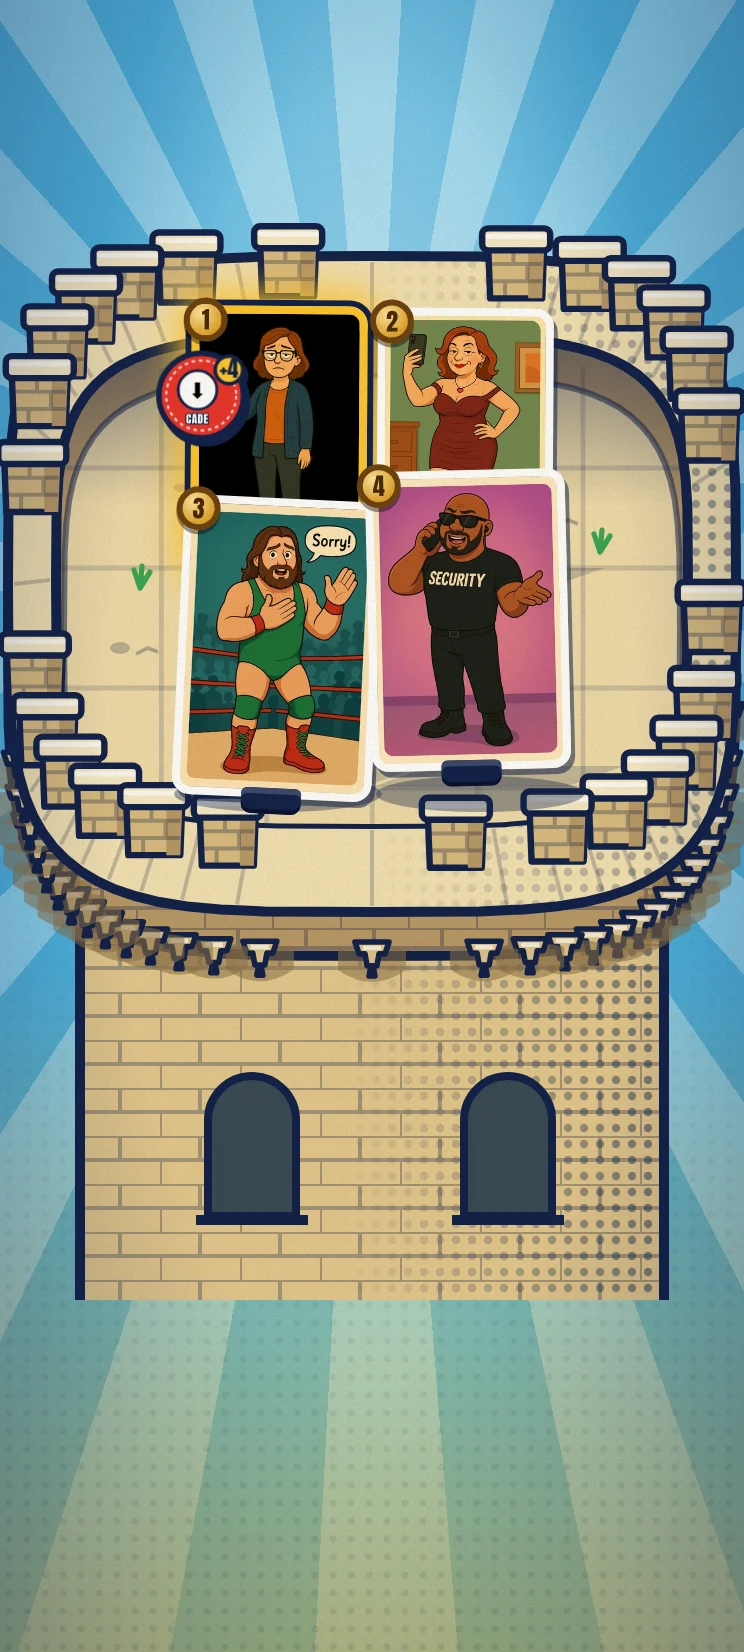
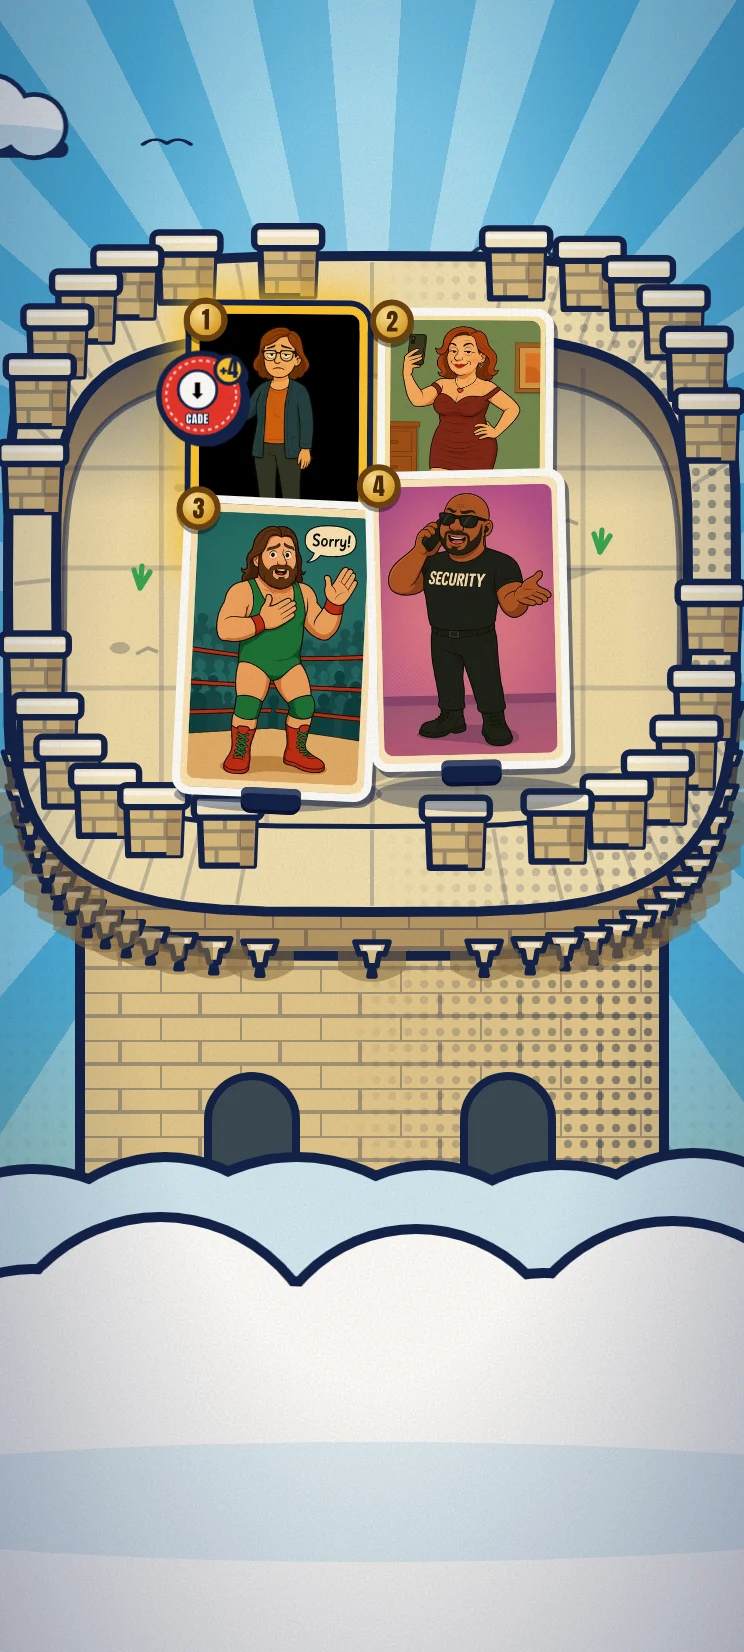
Torre fino a fuori schermo che spunta da un banco di nuvole animato; nuvole in cielo e uccellini (anche nell'app)
Claude-Session: https://claude.ai/code/session_015MZQbASn23pwRSK2Kvx35x

diff --git a/apps/web/src/scene/clouds.ts b/apps/web/src/scene/clouds.ts
@@ -1,0 +1,47 @@
+/**
+ * Nuvole e uccellini della scena della torre (stile pop: contorno inchiostro, bianco, ombra azzurra).
+ * - `cloudBankHtml`: il banco di nuvole in basso, da cui la torre «spunta»; sta dentro lo strato della torre (sopra il fusto, sotto la terrazza).
+ * - `skyLifeHtml`: nuvole che scorrono lente e uccellini che passano, dietro la torre.
+ * Le animazioni sono CSS (app.css, classi `sk-*`); con «riduci animazioni» restano ferme e senza uccellini.
+ */
+const NV = "#13224a";
+type C = [number, number, number];
+
+/** Una nuvola: cerchi sovrapposti, contorno inchiostro (cerchi più grandi sotto), riempimento bianco e ombra azzurra in basso. */
+function nuvola(id: string, w: number, circles: C[], baseY: number): string {
+  const grow = circles.map(([x, y, r]) => `<circle cx="${x}" cy="${y}" r="${r + 4}"/>`).join(""), fill = circles.map(([x, y, r]) => `<circle cx="${x}" cy="${y}" r="${r}"/>`).join("");
+  const h = Math.max(...circles.map(([, y, r]) => y + r)) + 6;
+  return `<svg width="${w}" height="${w * h / 210}" viewBox="0 0 210 ${h}" style="display:block;overflow:visible"><defs><clipPath id="${id}">${fill}</clipPath></defs>
+  <g fill="${NV}">${grow}<rect x="${Math.min(...circles.map(([x, , r]) => x - r)) - 4}" y="${baseY - 4}" width="${Math.max(...circles.map(([x, , r]) => x + r)) - Math.min(...circles.map(([x, , r]) => x - r)) + 8}" height="14" rx="7"/></g>
+  <g fill="#fff">${fill}</g><g clip-path="url(#${id})"><ellipse cx="105" cy="${baseY + 8}" rx="120" ry="26" fill="#cfe8f5"/><ellipse cx="62" cy="${baseY + 14}" rx="60" ry="12" fill="#b7dcee" opacity=".7"/></g></svg>`;
+}
+const FORME: { c: C[]; baseY: number }[] = [
+  { c: [[44, 62, 26], [82, 46, 34], [122, 54, 30], [158, 64, 24], [102, 68, 26]], baseY: 80 },
+  { c: [[40, 56, 22], [70, 40, 28], [104, 36, 32], [140, 50, 28], [172, 62, 20], [96, 60, 24]], baseY: 74 },
+  { c: [[52, 58, 28], [96, 44, 34], [140, 58, 28]], baseY: 80 },
+];
+
+/** Il banco di nuvole in basso: due file che ondeggiano piano in senso opposto, bianche e azzurre. `top` è la y (nelle coordinate dello strato) della cima delle nuvole. */
+export function cloudBankHtml(top: number): string {
+  const row = (ys: number, rs: number[], fill: string, cls: string, x0: number, step: number) => `<g class="${cls}" fill="${fill}">${rs.map((r, i) => `<circle cx="${x0 + i * step}" cy="${ys + (i % 2 ? 14 : 0)}" r="${r}"/>`).join("")}</g>`;
+  const outline = (ys: number, rs: number[], cls: string, x0: number, step: number) => `<g class="${cls}" fill="${NV}">${rs.map((r, i) => `<circle cx="${x0 + i * step}" cy="${ys + (i % 2 ? 14 : 0)}" r="${r + 5}"/>`).join("")}</g>`;
+  const A = [64, 78, 70, 84, 66, 80, 72, 76], B = [58, 70, 82, 64, 76, 68, 80, 60];
+  return `<svg style="position:absolute;left:0;top:${top}px;z-index:1;overflow:visible;pointer-events:none" width="372" height="700" viewBox="0 0 372 700">
+  ${outline(40, A, "sk-b1", -52, 66)}${row(40, A, "#d3ebf7", "sk-b1", -52, 66)}
+  ${outline(82, B, "sk-b2", -38, 64)}${row(82, B, "#ffffff", "sk-b2", -38, 64)}
+  <rect x="-80" y="130" width="540" height="600" fill="#fff"/><ellipse cx="186" cy="140" rx="300" ry="30" fill="#e6f3fb"/></svg>`;
+}
+
+/** Nuvole che scorrono e uccellini: sono in coordinate dello schermo (372 × H), dietro la torre. `anim` falso = tutto fermo e senza uccellini. */
+export function skyLifeHtml(anim: boolean): string {
+  const nuvole = [
+    { f: 0, y: 24, w: 128, d: 95, dl: -10, o: 0.95 }, { f: 1, y: 118, w: 96, d: 70, dl: -42, o: 0.9 }, { f: 2, y: 196, w: 112, d: 120, dl: -66, o: 0.85 }, { f: 1, y: 296, w: 84, d: 85, dl: -20, o: 0.8 },
+  ];
+  const cl = nuvole.map((n, i) => {
+    const forma = FORME[n.f]!, x0 = anim ? "" : `left:${[200, 18, 230, 8][i]}px;`;
+    return `<div class="${anim ? "sk-cloud sk-anim" : ""}" style="position:absolute;top:${n.y}px;${x0}opacity:${n.o};${anim ? `animation-duration:${n.d}s;animation-delay:${n.dl}s;` : ""}">${nuvola(`skc${i}`, n.w, forma.c, forma.baseY)}</div>`;
+  }).join("");
+  const uccello = (i: number, y: number, dur: number, dl: number, s: number) => `<div class="sk-bird sk-anim" style="top:${y}px;animation-duration:${dur}s;animation-delay:${dl}s;--s:${s}"><svg width="${26 * s}" height="${14 * s}" viewBox="0 0 26 14" class="sk-wing"><path d="M1 9 Q7 -1 13 8 Q19 -1 25 9" fill="none" stroke="${NV}" stroke-width="2.6" stroke-linecap="round" stroke-linejoin="round"/></svg></div>`;
+  const birds = anim ? uccello(0, 70, 26, 2, 1) + uccello(1, 150, 34, 11, 0.8) + uccello(2, 104, 30, 17, 0.65) + uccello(3, 232, 40, 24, 0.9) : "";
+  return `<div style="position:absolute;inset:0;overflow:hidden;pointer-events:none" aria-hidden="true">${cl}${birds}</div>`;
+}

diff --git a/apps/web/src/scene/draw.ts b/apps/web/src/scene/draw.ts
@@ -1,5 +1,6 @@
 // Disegno della terrazza (vista dall'alto) e della Torre di profilo, come stringhe HTML/SVG. Derivato dal mockup approvato.
 // @ts-nocheck
+import { cloudBankHtml } from "./clouds.ts";
 import { tokenUrl } from "../lib/characters.ts";
 import { megaNested } from "./megaIcon.ts";
 import { visibleRect } from "../lib/results.ts";
@@ -24,9 +25,9 @@ function merlonG(x,y,w,h){
   return `<g stroke="${NV}" stroke-width="3.2" stroke-linejoin="round"><polygon points="${x+1},${y} ${x+w-1},${y} ${x+w},${y-h} ${x},${y-h}" fill="#d9bd82"/><polygon points="${x+w-8},${y} ${x+w-1},${y} ${x+w},${y-h} ${x+w-8},${y-h}" fill="#b99a68" stroke="none"/><path d="M${x+1} ${y-h*.66}H${x+w-1}M${x+1} ${y-h*.33}H${x+w-1}M${x+w*.45} ${y-h}V${y-h*.66}M${x+w*.7} ${y-h*.66}V${y-h*.33}M${x+w*.3} ${y-h*.33}V${y}" stroke="${NV}" stroke-opacity=".3" stroke-width="2" fill="none"/><rect x="${x-3}" y="${y-h-9}" width="${w+6}" height="11" rx="3" fill="#f7ebc8"/><path d="M${x} ${y-h-5}h${w}" stroke="#fff" stroke-width="2.4" stroke-linecap="round" opacity=".8" fill="none"/></g>`}
 function corbelG(x,y,w=22,h=20){
   return `<g stroke="${NV}" stroke-width="2.8" stroke-linejoin="round"><path d="M${x-w/2} ${y}H${x+w/2}L${x+w/2-2} ${y+h*.35}H${x+w/2-5}L${x+w/2-6} ${y+h*.7}H${x+w/2-9}L${x+w/2-10} ${y+h}H${x-w/2+10}L${x-w/2+9} ${y+h*.7}H${x-w/2+6}L${x-w/2+5} ${y+h*.35}H${x-w/2+2}Z" fill="#dcc48c"/><path d="M${x-w/2+4} ${y+3}h${w-8}" stroke="#fff" stroke-opacity=".7" stroke-width="2.2"/></g>`}
-function shaft(top=640){ // fusto in mattoni con finestre, come la torre del regolamento
-  let o=`<svg style="position:absolute;left:0;top:0;z-index:1" width="372" height="826" viewBox="0 0 372 826"><defs><pattern id="bk" width="40" height="24" patternUnits="userSpaceOnUse"><rect width="40" height="24" fill="${ST}"/><path d="M0 0h40M0 12h40M20 0v12M0 12v12" stroke="${NV}" stroke-opacity=".3" stroke-width="2"/></pattern><pattern id="ht" width="8" height="8" patternUnits="userSpaceOnUse"><circle cx="4" cy="4" r="2.1" fill="${NV}"/></pattern><linearGradient id="gr" x1="0" x2="1"><stop offset=".45" stop-color="#fff" stop-opacity="0"/><stop offset=".95" stop-color="#fff"/></linearGradient><mask id="mk"><rect width="372" height="826" fill="url(#gr)"/></mask></defs>`;
-  o+=`<rect x="40" y="${top}" width="292" height="700" fill="url(#bk)" stroke="${NV}" stroke-width="5"/><rect x="40" y="${top}" width="292" height="700" fill="url(#ht)" mask="url(#mk)" opacity=".55"/>`;
+function shaft(top=640){ // fusto in mattoni con finestre, come la torre del regolamento (prosegue fino fuori schermo)
+  let o=`<svg style="position:absolute;left:0;top:0;z-index:1" width="372" height="1700" viewBox="0 0 372 1700"><defs><pattern id="bk" width="40" height="24" patternUnits="userSpaceOnUse"><rect width="40" height="24" fill="${ST}"/><path d="M0 0h40M0 12h40M20 0v12M0 12v12" stroke="${NV}" stroke-opacity=".3" stroke-width="2"/></pattern><pattern id="ht" width="8" height="8" patternUnits="userSpaceOnUse"><circle cx="4" cy="4" r="2.1" fill="${NV}"/></pattern><linearGradient id="gr" x1="0" x2="1"><stop offset=".45" stop-color="#fff" stop-opacity="0"/><stop offset=".95" stop-color="#fff"/></linearGradient><mask id="mk"><rect width="372" height="826" fill="url(#gr)"/></mask></defs>`;
+  o+=`<rect x="40" y="${top}" width="292" height="1000" fill="url(#bk)" stroke="${NV}" stroke-width="5"/><rect x="40" y="${top}" width="292" height="1000" fill="url(#ht)" mask="url(#mk)" opacity=".55"/>`;
   [[104,top+80],[232,top+80]].forEach(([x,y])=>o+=`<path d="M${x} ${y+64}V${y+16}a22 22 0 0144 0V${y+64}z" fill="#3b4a55" stroke="${NV}" stroke-width="4"/><path d="M${x-6} ${y+66}h56" stroke="${NV}" stroke-width="5"/>`);
   return o+'</svg>'}
 function terraceBase(){
@@ -86,7 +87,8 @@ function cardsLayout(n,opt={}){
   if(opt.posOut)Object.assign(opt.posOut,pos);
   return o}
 const terrace=(n,opt={})=>shaft()+terraceBase()+cardsLayout(n,opt);
-export function terraceBaseHtml(): string { return shaft() + terraceBase(); }
+/** `bankTop`: y (strato della torre) da cui spuntano le nuvole in basso; senza, niente nuvole. */
+export function terraceBaseHtml(bankTop?: number): string { return shaft() + (bankTop === undefined ? "" : cloudBankHtml(bankTop)) + terraceBase(); }
 export function terraceCardsHtml(urls: string[], n: number, opt: any = {}): string { URLS = urls; return cardsLayout(n, opt); }
 export function terracePos(n: number, spread = false): Record<number, { x: number; f: number; w: number; h: number }> { const pos: any = {}; cardsLayout(n, { posOut: pos, spread }); return pos; }
 export { voteTok, luiTok };

diff --git a/apps/web/src/components/Terrace.tsx b/apps/web/src/components/Terrace.tsx
@@ -1,5 +1,6 @@
 import { useEffect, useMemo, useRef, useState } from "react";
 import { terraceBaseHtml, terraceCardsHtml, terracePos, profileShaft } from "../scene/draw.ts";
+import { skyLifeHtml } from "../scene/clouds.ts";
 import { cardFull } from "../lib/cards.ts";
 import { FAST, useStage } from "../ui.tsx";
 import { usePersona } from "./Persona.tsx";
@@ -24,13 +25,17 @@ export interface TerraceProps {
 
 /** La terrazza vista dall'alto: carte intere su piedini neri, gettoni sopra. Disegno dal mockup approvato. */
 export function Terrace(p: TerraceProps) {
-  const { ts, ty } = useStage(), n = p.cardIds.length, openPersona = usePersona();
-  const base = useMemo(() => terraceBaseHtml(), []);
+  const { ts, ty, H } = useStage(), n = p.cardIds.length, openPersona = usePersona();
+  // il banco di nuvole spunta a ~215 px dal fondo dello schermo (il pannello sta sotto): la y va riportata nelle coordinate dello strato, scalato e spostato
+  const bankTop = Math.round((H - 215 - 300 - ty) / ts + 300), base = useMemo(() => terraceBaseHtml(bankTop), [bankTop]);
+  const sky = useMemo(() => skyLifeHtml(!FAST), []);
   const pos = useMemo(() => terracePos(n, p.spread), [n, p.spread]);
   const urls = useMemo(() => p.cardIds.map(cardFull), [p.cardIds.join("|")]); // eslint-disable-line react-hooks/exhaustive-deps
   const key = JSON.stringify([urls, p.down, p.show, p.pop, p.flip, p.votes, p.lastVote, p.marks, p.sink, p.spread]);
   const cards = useMemo(() => terraceCardsHtml(urls, n, { down: p.down, show: p.show, pop: p.pop, flip: p.flip, votes: p.votes, lastVote: p.lastVote, sink: p.sink, spread: p.spread, ...(p.marks?.length ? { luiList: p.marks } : {}) }), [key]); // eslint-disable-line react-hooks/exhaustive-deps
   return (
+    <>
+    <div className="layer" style={{ left: 0, top: 0, width: 372, height: H, zIndex: 0 }} dangerouslySetInnerHTML={{ __html: sky }} />
     <div className="layer" style={{ transformOrigin: "186px 300px", transform: `translateY(${ty}px) scale(${ts})` }} data-testid="terrace" onClick={(e) => { const el = (e.target as HTMLElement).closest("[data-pid]") as HTMLElement | null; if (el?.dataset.pid) openPersona?.(el.dataset.pid); }}>
       <div style={{ left: 0, top: 0, width: 372, height: 826 }} dangerouslySetInnerHTML={{ __html: base }} />
       <div style={{ left: 0, top: 0, width: 372, height: 826 }} dangerouslySetInnerHTML={{ __html: cards }} />
@@ -43,6 +48,7 @@ export function Terrace(p: TerraceProps) {
         <button key={lp} className="hit luihit" aria-label={txs("rv.lui.aria")} data-testid="lui-token" onClick={p.onLui}
           style={{ left: c.x - 24, top: c.f - 6 - c.h / 2 - 27, width: 56, height: 54, zIndex: 120, background: "none", border: 0 }} />) : null; })}
     </div>
+    </>
   );
 }
 

diff --git a/apps/web/src/styles/app.css b/apps/web/src/styles/app.css
@@ -1597,3 +1597,15 @@ button.rs-pl{font:inherit;font-family:Anton,Impact,sans-serif;cursor:pointer;col
 .esp-liv button{flex:1;border:3px solid var(--navy);border-radius:99px;background:#fff7e0;box-shadow:0 3px 0 var(--navy);padding:7px 4px;font:400 15px/1 Anton;text-transform:uppercase;color:var(--navy);cursor:pointer}
 .esp-liv button.on{background:var(--mus)}
 .esp-liv.in{margin:2px 0 4px}.esp-liv.in>span{flex:0 0 auto;margin-right:auto}
+
+/* ===== Nuvole e uccellini della scena della torre ===== */
+.stage .layer>.sk-cloud{position:absolute}
+.sk-cloud{left:0;animation:skdrift linear infinite;will-change:transform}
+@keyframes skdrift{from{transform:translateX(-170px)}to{transform:translateX(400px)}}
+.sk-bird{position:absolute;left:0;opacity:0;animation:skbird linear infinite;will-change:transform}
+.sk-wing{display:block;transform-origin:50% 80%;animation:skflap .55s ease-in-out infinite alternate}
+@keyframes skflap{from{transform:scaleY(1)}to{transform:scaleY(.3)}}
+@keyframes skbird{0%{transform:translate(-40px,0);opacity:0}4%{opacity:1}12%{transform:translate(70px,-8px)}25%{transform:translate(170px,6px)}38%{transform:translate(270px,-6px)}48%{transform:translate(360px,2px);opacity:1}52%{transform:translate(412px,0);opacity:0}100%{transform:translate(412px,0);opacity:0}}
+.sk-b1{animation:skbank 9s ease-in-out infinite alternate}.sk-b2{animation:skbank 7s ease-in-out -3s infinite alternate-reverse}
+@keyframes skbank{from{transform:translateX(-11px)}to{transform:translateX(11px)}}
+@media (prefers-reduced-motion:reduce){.sk-anim,.sk-b1,.sk-b2,.sk-wing{animation:none !important}.sk-bird{display:none}}

diff --git a/docs/DESIGN_SYSTEM.md b/docs/DESIGN_SYSTEM.md
@@ -50,3 +50,6 @@ Sostituisce barra in alto + nastro del titolo + riquadri di istruzioni. Mockup d
 - **Intervallo** (`MiniGame.tsx`): annuncio con nastro, carta illustrata e tre passi; poi stessa struttura del turno.
 - Lo schermo condiviso (sola visione) usa gli stessi componenti senza icone né segnalini.
 - Motore, protocollo e worker non cambiano. I test end-to-end usano `phrase-go` per confermare la frase e un secondo tocco su `confirm-vote` anche nell'intervallo.
+
+## Cielo vivo (nuvole e uccellini)
+`apps/web/src/scene/clouds.ts`: la torre prosegue fino al bordo inferiore e **spunta da un banco di nuvole** (due file che ondeggiano piano, sopra il fusto e sotto la terrazza); in alto **nuvole che scorrono lente** e **uccellini che passano** dietro la torre. Animazioni solo CSS (`sk-*` in `app.css`); con «riduci animazioni» / `?fast=1` nuvole ferme e niente uccellini. Fanno parte di `Terrace` (partite, intervalli, Torre del giorno, torri degli utenti).
